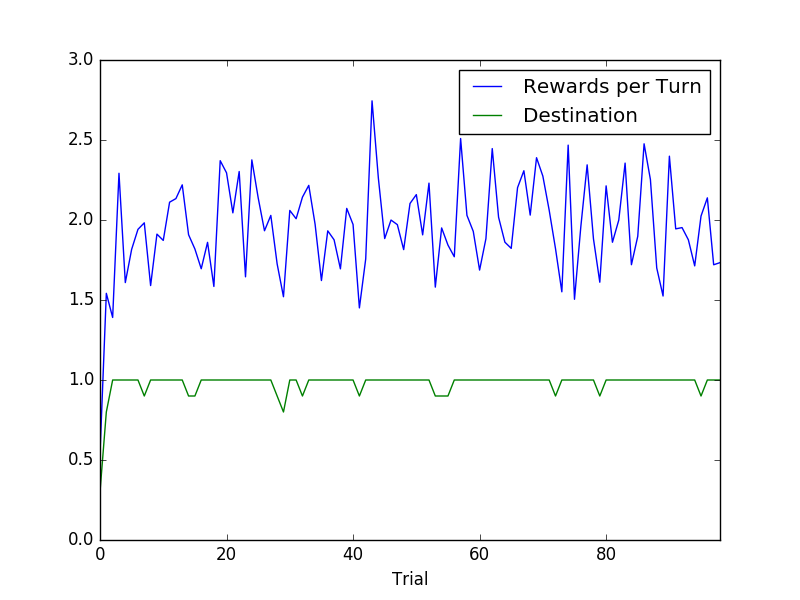
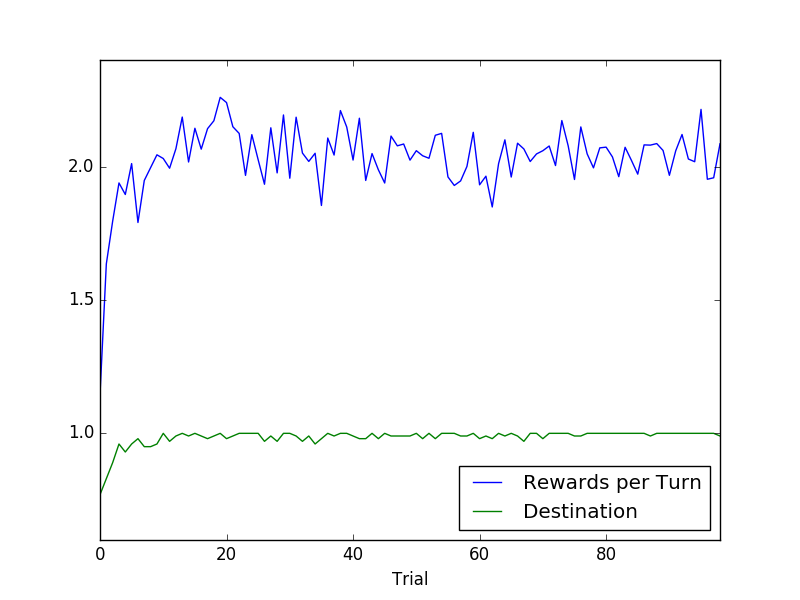
Revised questions

diff --git a/smartcab/agent.py b/smartcab/agent.py
@@ -43,7 +43,7 @@ class LearningAgent(Agent):
         self.rewardsum = 0.0
         self.destbool = 0.0
 
-    def choose_action(self, state, epsilon=1.0):
+    def choose_action(self, state, epsilon=0.2):
 
         # Check if a policy exists
         if state in self.policy.keys():
@@ -83,7 +83,7 @@ class LearningAgent(Agent):
         return action, expected
 
 
-    def update_policy(self, action, reward, alpha=0.28, initq=1.0, gamma = 0.1):
+    def update_policy(self, action, reward, alpha=0.2, initq=1.0, gamma = 0.2):
 
         # Get the new state for estimating Q
         newtokey = self.env.sense(self).values()
@@ -171,7 +171,7 @@ def run():
 
 if __name__ == '__main__':
     # Run multiple trials for a nice smooth graphic
-    for i in range(10):
+    for i in range(100):
         outdf = run()
         try:
             sumdf = sumdf.append(outdf, ignore_index=True)
@@ -185,6 +185,7 @@ if __name__ == '__main__':
           "\nAverage Destinations Reached for the last 10 trials: {1}".format(
         ltdf[ltdf["Trial"] >= 90]["Rewards per Turn"].mean(),
         ltdf[ltdf["Trial"] >= 90]["Destination"].mean())
+
 
     df.plot()
     plt.savefig("../images/summary_plot.png")

diff --git a/project_report.md b/project_report.md
@@ -17,10 +17,8 @@ modeling the smartcab and environment? Why do you believe each of these
 states to be appropriate for this problem?
 
 **ANSWER 2**: I've defined the state as a list: the light color, if
-there is any traffic surrounding the car, which direction the planner is
-directing the agent, and a binned representation of the deadline. The
-the deadline bins should be 0-3: state 1, 4-8: state 2, 9-16: state 3,
-17+: state 4.
+there is any traffic surrounding the car, and which direction the
+planner is directing the agent.
 
 My logic for including all of these components in state are:
 
@@ -29,19 +27,15 @@ My logic for including all of these components in state are:
 * oncoming left - yielding again
 * oncoming right - yielding
 * planner direction - important for getting to (or avoiding) the target
-* deadline bins - provide tiers for how rushed the agent is
 
 **OPTIONAL**: How many states in total exist for the smartcab in this
 environment? Does this number seem reasonable given that the goal of
 Q-Learning is to learn and make informed decisions about each state? Why
 or why not?
 
-**OPTIONAL ANSWER**: There are 192 unique states possible given my
-definition of state. I feel like this is probably on the high end of
-what's a reasonable number of possible states for this relatively simple
-simulation, but I'm going to go for it and see how it goes. My hope is
-that the more complex representation of the world will pay off in the
-end, despite probably taking a longer time for the agent to learn.
+**OPTIONAL ANSWER**: There are 48 unique states possible given my
+definition of state, which seems reasonable for the problem and the
+amount of trials during which the agent gets to learn.
 
 **QUESTION 3**: What changes do you notice in the agent's behavior when
 compared to the basic driving agent when random actions were always
@@ -62,24 +56,42 @@ your basic implementation of Q-Learning. For which set of parameters
 does the agent perform best? How well does the final driving agent
 perform?
 
-**ANSWER 4**: I tried setting epsilon to a couple different values
-between 0.001 and 0.1. 0.015 ended up working the best for optimizing my
-total destinations reached.
+**ANSWER 4**: Here's a table of the parameters I tried and their
+performances on the last ten rounds (average of 10 runs).
 
-For my assumed Q estimation for unknown states, I tried -1, 0, 1, 5, and
-10. I definitely had the most success with 1 - some of the more extreme
-values had strange consequencies, like my smartcab not moving at all.
+| Epsilon | Alpha | Gamma | Rewards per Turn | Destinations Reached |
+|---------|-------|-------|------------------|----------------------|
+| 0.2     | 0.2   | 0.3   | 2.207367602      | 1                    |
+| 0.1     | 0.2   | 0.1   | 2.079277851      | 1                    |
+| 0.1     | 0.2   | 0.3   | 2.07014653       | 1                    |
+| 0.3     | 0.2   | 0.1   | 2.033722557      | 1                    |
+| 0.3     | 0.1   | 0.1   | 2.029828885      | 1                    |
+| 0.1     | 0.3   | 0.1   | 2.000196694      | 1                    |
+| 0.1     | 0.1   | 0.1   | 1.967406606      | 1                    |
+| 0.2     | 0.1   | 0.1   | 1.965554752      | 1                    |
+| 0.3     | 0.3   | 0.1   | 1.962549466      | 1                    |
+| 0.3     | 0.1   | 0.3   | 2.15948319       | 0.988888889          |
+| 0.2     | 0.3   | 0.3   | 2.152544754      | 0.988888889          |
+| 0.3     | 0.2   | 0.3   | 2.093428896      | 0.988888889          |
+| 0.2     | 0.3   | 0.1   | 1.862837965      | 0.988888889          |
+| 0.3     | 0.3   | 0.3   | 1.85189416       | 0.988888889          |
+| 0.1     | 0.3   | 0.3   | 2.176400109      | 0.977777778          |
+| 0.2     | 0.2   | 0.1   | 2.033498415      | 0.977777778          |
+| 0.3     | 0.1   | 0.5   | 2.310587802      | 0.966666667          |
+| 0.2     | 0.1   | 0.3   | 2.043346077      | 0.966666667          |
+| 0.2     | 0.2   | 0.5   | 2.446405432      | 0.955555556          |
+| 0.1     | 0.1   | 0.5   | 2.434614228      | 0.955555556          |
+| 0.3     | 0.2   | 0.5   | 2.244029687      | 0.955555556          |
+| 0.2     | 0.1   | 0.5   | 2.193300533      | 0.955555556          |
+| 0.2     | 0.3   | 0.5   | 2.179456248      | 0.955555556          |
+| 0.1     | 0.1   | 0.3   | 2.069022578      | 0.955555556          |
+| 0.1     | 0.2   | 0.5   | 2.265488468      | 0.933333333          |
+| 0.3     | 0.3   | 0.5   | 2.139192292      | 0.922222222          |
+| 0.1     | 0.3   | 0.5   | 2.400442506      | 0.911111111          |
 
-For gamma, I actually found that setting it extremely low resulted in a
-better Average Destinations Reached value, but at the expense of Average
-Rewards per Turn. So while gamma=0.001 was great for getting the cab to
-the destination, I think the cab was driving terrible/inefficiently to
-get there. I ended up with a value of gamma=0.1 as a middle ground.
-
-For alpha, I tried a pretty wide range of values again, from 0.0001 to
-0.9999. I ended up going for 0.28, for the reason that somewhere between
-0.25 and 0.3 I tended to get perfect destination totals for the second
-half of each experiment.
+Using this table I selected the top combination which maximized
+destinations reached, and then maximized rewards per turn. The
+combination was epsilon=0.2, alpha=0.2, and gamma=0.3.
 
 **QUESTION 5**: Does your agent get close to finding an optimal policy,
 i.e. reach the destination in the minimum possible time, and not incur
@@ -87,33 +99,37 @@ any penalties? How would you describe an optimal policy for this
 problem?
 
 **ANSWER 5**: Running the experiment 100 consecutive times and averaging
-together the trials yields the following graph.
+together the trials showed that my selected tuning was closer to scores
+of "Average Rewards per Turn for the last 10 trials: 2.12221825215" and
+"Average Destinations Reached for the last 10 trials: 0.985555555556".
+On a whim, I decided to try one other tuning, epsilon=0.2, alpha=0.2,
+and gamma=0.2, which resulted in "Average Rewards per Turn for the last
+10 trials: 2.03261044849" and "Average Destinations Reached for the last
+10 trials: 0.995555555556". So I ended up selecting epsilon=0.2,
+alpha=0.2, and gamma=0.2 as my final model. The graph below shows a
+summary of those 100 runs.
 
-![Summary Plot](images/summary_plot.png)
+![Summary Plot for epsilon=0.2, alpha=0.2, and gamma=0.2](images/summary_plot.png)
 
-My agent is approaching 1.0 for its average destinations reached, but it
-doesn't seem to improve much on average rewards per turn after about 20
-trials. So I think I've currently got a reasonably dependable agent but
-which isn't driving safe or efficient... big problems once outside of a
-simulation.
+My agent is currently getting close to a perfect 1.0 for its average
+destinations reached, but browsing through the logs shows that it does
+occasionally take illegal actions in its final 10 trials. From my most
+recent run there were two moves that incurred negative rewards:
+
+Trial 91, inputs = {'light': 'red', 'oncoming': None, 'right': None, 'left': 'forward'}, action = forward, reward = -1.0
+Trial 96, inputs = {'light': 'green', 'oncoming': None, 'right': 'forward', 'left': None}, action = forward, reward = -0.5
+
+My thinking is that these states are either encountered too rarely (but
+considering my now reduced state space, I think this is unlikely. My
+estimation is that the average run has 1300 moves, which should be
+enough for a state space of 48.) or the forecasting component of the Q
+equation is causing it. So I'm expecting that the car is learning to
+take illegal moves anytime a reached destination inflates a specific
+state outside of it's otherwise correct policy. I think the solution to
+this would be to introduce a decay on the alpha, same as what I've
+already now implimented on the epsilon.
 
 An optimal policy for this problem would have a perfect destination
-count of 1 at the end of the trials, and it would never incur any
-negative rewards. My learner most certainly isn't there yet. I think
-having epsilon and the learning rate scale down as the trials progress,
-as mentioned in the lectures, would be a big step in the right
-direction. I'm also wondering if there's some way to forecast further
-than one expected state ahead, and if that could improve the learner in
-this exercise.
-
-I also may need to remove any awareness of deadlines from my
-agent's state - 192 different states is probably too many for such a
-small number of trials. I currently have my choose_actions function set
-up with a crude way of picking a similar stage to use as a basis for
-newly encountered stages, but I probably need to evaulate whether
-setting that up was a good move.
-
-All in all, though, this project was really rewarding! This is the first
-time I've coded any sort of AI, and I was really thrilled about how this
-first attempt went and seeing my agent moving around figuring things
-out!
+count of 1 , and it would never incur any
+negative rewards. My learner isn't quite there yet, but it's pretty
+close.
